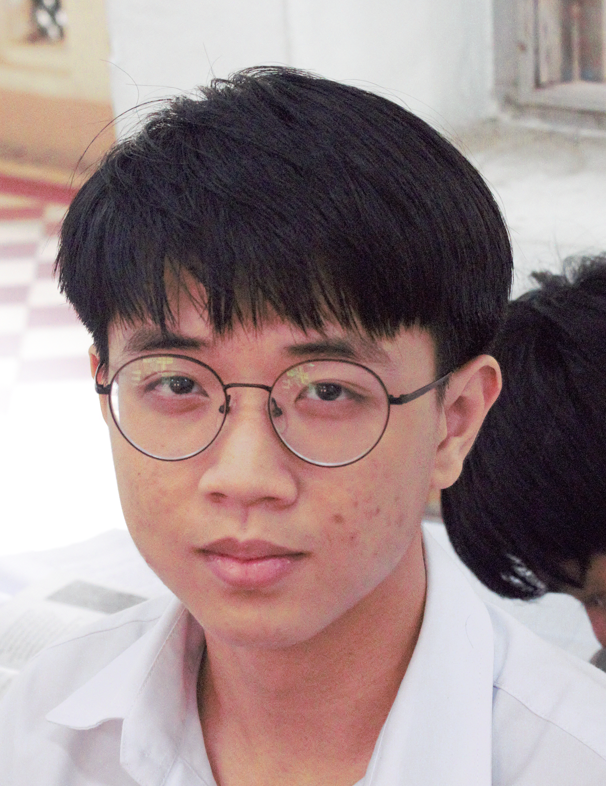
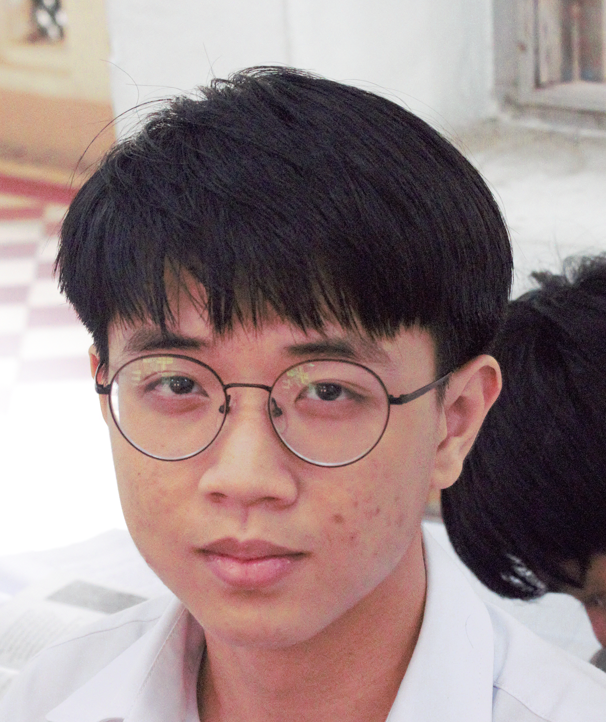
some stuff

diff --git a/members/NPhuong.html b/members/NPhuong.html
@@ -56,7 +56,7 @@
 
         <section class="individual">
             <img id="squid" src="../Pictures/Decor/squid.gif">
-            <img src="../Pictures/NPhuong2.jpg" alt="FAnh">
+            <img src="../Pictures/NPhuong4.jpg" alt="FAnh">
             <div class="introduction">
                 <p><b>Name:</b> Phung Lai Nhu Phuong<br><b>Birthday:</b> 17/2/2005<br><b>Favourite animal:</b>
                     dogs, cats, and other animals that pass the "cute" criteria<br><b>Least favourite subjects:</b>
@@ -79,7 +79,7 @@
                     -Yes, I do dreamt of being drowned in deadlines, before I reach the age of 30.
                 </p>
             </div>
-            <img src="../Pictures/NPhuong.jpg">
+            <img src="../Pictures/NPhuong3.jpg">
         </section>
         <div id="BubbleWrapper">
 

diff --git a/members.html b/members.html
@@ -261,7 +261,7 @@
             </div>
             <div class="row">
                 <div class="members-col">
-                    <img loading="lazy" src="Pictures/NhuPhuong.png">
+                    <img loading="lazy" src="Pictures/NPhuong5.png">
                     <a href="members/NPhuong.html">
                         <div class="layer">
                             <h3>PHUNG LAI NHU PHUONG</h3>

diff --git a/style.css b/style.css
@@ -333,6 +333,7 @@ h5{
 
     footer{
         overflow-y: hidden;
+        line-height: 1.5;
     }
     footer p{
         font-size: 12px;
